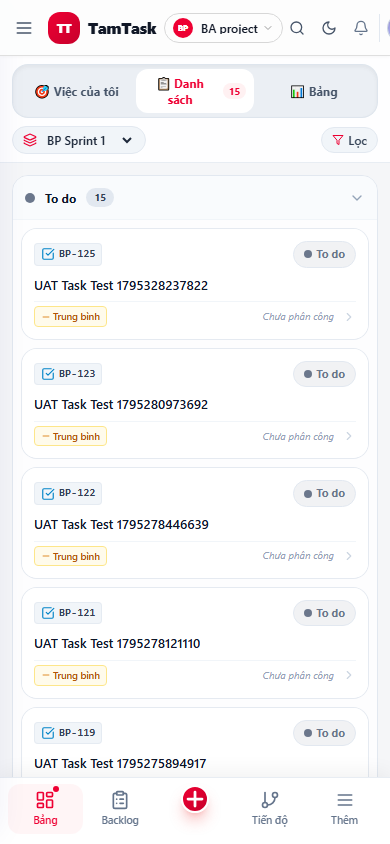
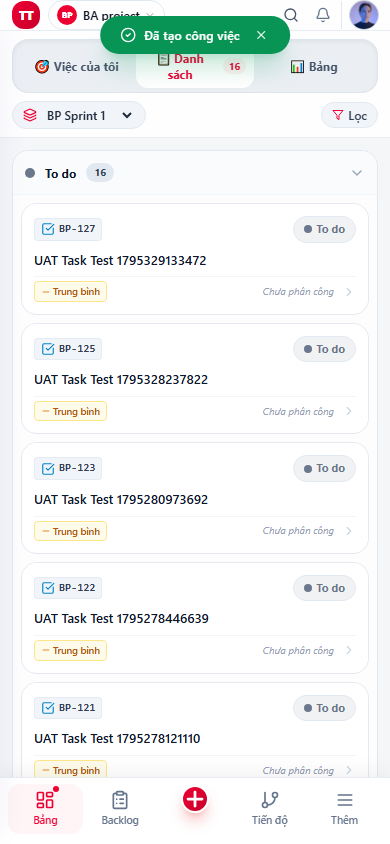
feat(mobile): streamline Navbar for mobile native app bar UX

diff --git a/src/components/jira/Navbar.tsx b/src/components/jira/Navbar.tsx
@@ -283,48 +283,36 @@ export const Navbar: React.FC<NavbarProps> = ({
   };
 
   return (
-    <header className="h-14 bg-white/75 dark:bg-zinc-950/75 backdrop-blur-xl border-b border-[#D7D7D7]/80 dark:border-zinc-800/80 px-3 sm:px-4 flex items-center justify-between sticky top-0 z-30 select-none shadow-[0_1px_3px_rgba(0,0,0,0.03)] transition-colors duration-200">
+    <header className="h-13 sm:h-14 bg-white/85 dark:bg-zinc-950/85 backdrop-blur-xl border-b border-slate-200/80 dark:border-zinc-800/80 px-3 sm:px-4 flex items-center justify-between sticky top-0 z-30 select-none shadow-2xs transition-colors duration-200">
       {/* Left: TamTask Brand & Project Selector */}
-      <div className="flex items-center space-x-2 sm:space-x-3 shrink-0">
-        {/* Mobile Hamburger Menu Toggle */}
-        {onToggleSidebar && (
-          <button
-            type="button"
-            onClick={onToggleSidebar}
-            className="p-1.5 -ml-1 text-slate-600 dark:text-zinc-300 hover:text-slate-900 dark:hover:text-white hover:bg-slate-100 dark:hover:bg-zinc-800 rounded-lg md:hidden transition"
-            title="Mở menu điều hướng"
-          >
-            <Menu className="w-5 h-5" />
-          </button>
-        )}
-
-        {/* TamTask Brand Identity (Aligned vertically with collapsed sidebar icon) */}
+      <div className="flex items-center space-x-2 sm:space-x-3 shrink-0 min-w-0">
+        {/* TamTask Brand Identity */}
         <div className="flex items-center space-x-2 shrink-0">
-          <div className="w-8 h-8 rounded-xl bg-gradient-to-br from-[#EE0033] to-[#C7002B] flex items-center justify-center text-white shadow-xs font-black text-xs tracking-tight shrink-0">
+          <div className="w-7 h-7 sm:w-8 sm:h-8 rounded-xl bg-gradient-to-br from-[#EE0033] to-[#C7002B] flex items-center justify-center text-white shadow-xs font-black text-xs tracking-tight shrink-0">
             TT
           </div>
-          <span className="font-extrabold text-base tracking-tight text-[#111827] dark:text-zinc-100 font-sans">
+          <span className="font-extrabold text-base tracking-tight text-[#111827] dark:text-zinc-100 font-sans hidden sm:inline">
             TamTask
           </span>
         </div>
 
-        <div className="h-4 w-px bg-[#D7D7D7] dark:bg-zinc-800 hidden sm:block" />
+        <div className="h-4 w-px bg-slate-200 dark:bg-zinc-800 hidden sm:block" />
 
         {/* Project Selector Dropdown */}
-        <div className="relative z-40" ref={projectMenuRef}>
+        <div className="relative z-40 min-w-0" ref={projectMenuRef}>
           <button
             data-testid="project-switcher"
             title="Chọn dự án"
             onClick={() => setShowProjectDropdown(!showProjectDropdown)}
-            className="flex items-center space-x-2 p-1 sm:p-1.5 rounded-full hover:bg-white/80 dark:hover:bg-zinc-800/80 border border-[#D7D7D7] dark:border-zinc-700/80 transition text-left group px-2 sm:px-2.5 shadow-2xs"
+            className="flex items-center space-x-1.5 sm:space-x-2 p-1 sm:p-1.5 rounded-full hover:bg-white/80 dark:hover:bg-zinc-800/80 border border-slate-200 dark:border-zinc-700/80 transition text-left group px-2 sm:px-2.5 shadow-2xs max-w-[200px] xs:max-w-[240px] sm:max-w-none"
           >
             <div className={`w-5 h-5 rounded-full bg-[#EE0033] flex items-center justify-center text-white shadow-xs font-black ${
               (currentProject?.key?.slice(0, 3) || "TT").length >= 3 ? "text-[6.5px] tracking-tighter" : "text-[8px] tracking-tight"
             } shrink-0`}>
               {currentProject ? currentProject.key.slice(0, 3) : "TT"}
             </div>
-            <div className="font-semibold text-[#111827] dark:text-zinc-200 text-xs leading-none flex items-center gap-1">
-              <span className="truncate max-w-[80px] xs:max-w-[110px] sm:max-w-[140px]">
+            <div className="font-semibold text-[#111827] dark:text-zinc-200 text-xs leading-none flex items-center gap-1 min-w-0">
+              <span className="truncate max-w-[130px] xs:max-w-[160px] sm:max-w-[180px]">
                 {currentProject?.name || "TamTask"}
               </span>
               <ChevronDown className="w-3 h-3 text-[#9B9B9B] group-hover:text-[#111827] dark:group-hover:text-zinc-100 transition shrink-0" />
@@ -460,11 +448,11 @@ export const Navbar: React.FC<NavbarProps> = ({
           </div>
         )}
 
-        {/* Light / Dark Mode Toggle Button on Header */}
+        {/* Light / Dark Mode Toggle Button on Header (Hidden on mobile, accessible via MobileMoreSheet) */}
         <button
           type="button"
           onClick={toggleDarkMode}
-          className="p-1.5 text-slate-400 hover:text-slate-700 dark:hover:text-zinc-200 hover:bg-slate-100 dark:hover:bg-zinc-800 rounded-lg transition"
+          className="hidden sm:flex p-1.5 text-slate-400 hover:text-slate-700 dark:hover:text-zinc-200 hover:bg-slate-100 dark:hover:bg-zinc-800 rounded-lg transition"
           title={isDarkMode ? "Chuyển sang giao diện Sáng (Light Mode)" : "Chuyển sang giao diện Tối (Dark Mode)"}
         >
           {isDarkMode ? (
